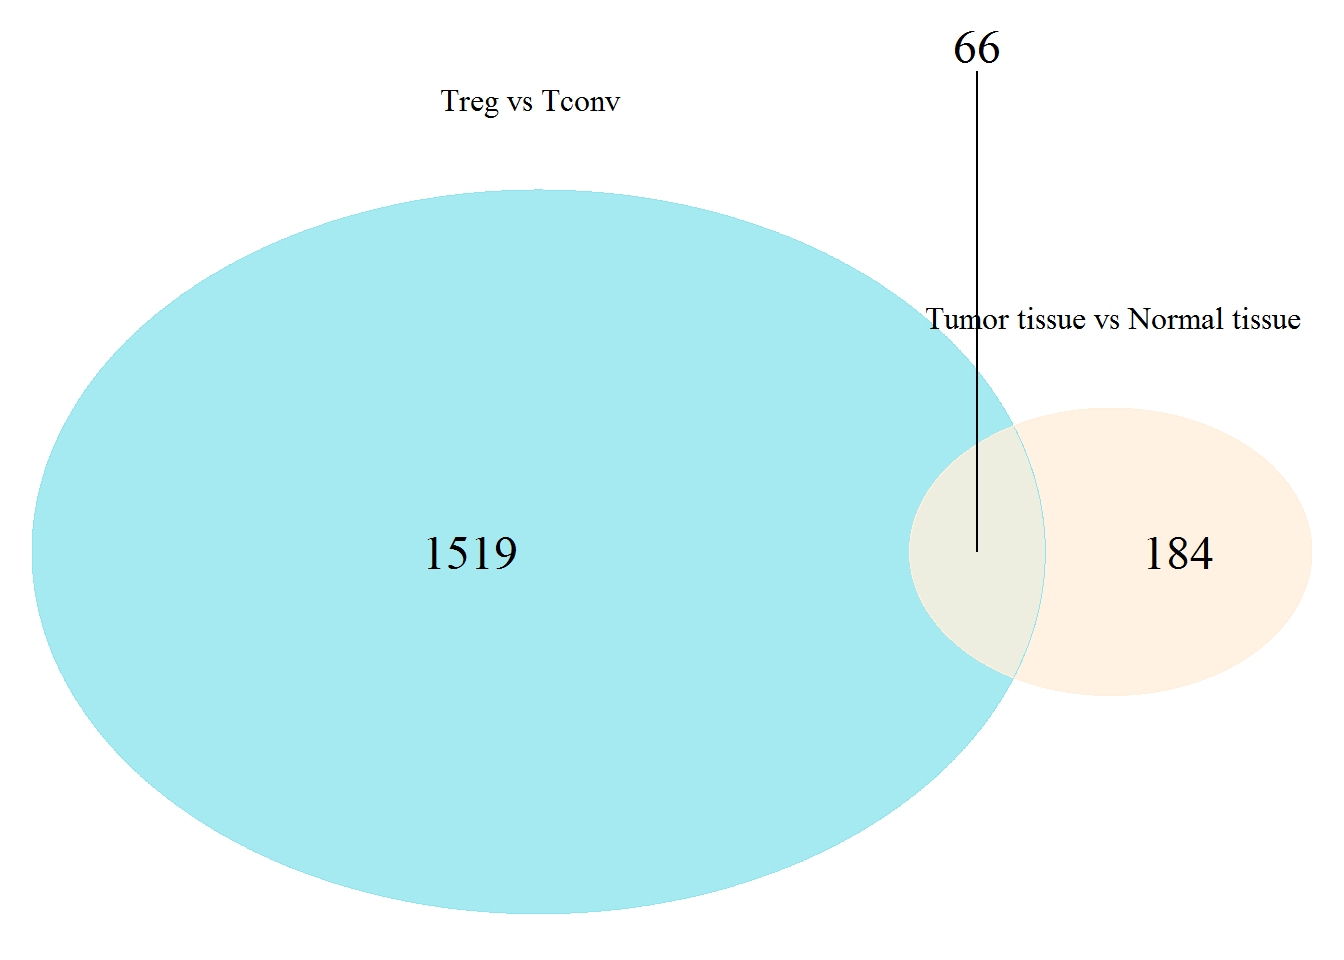
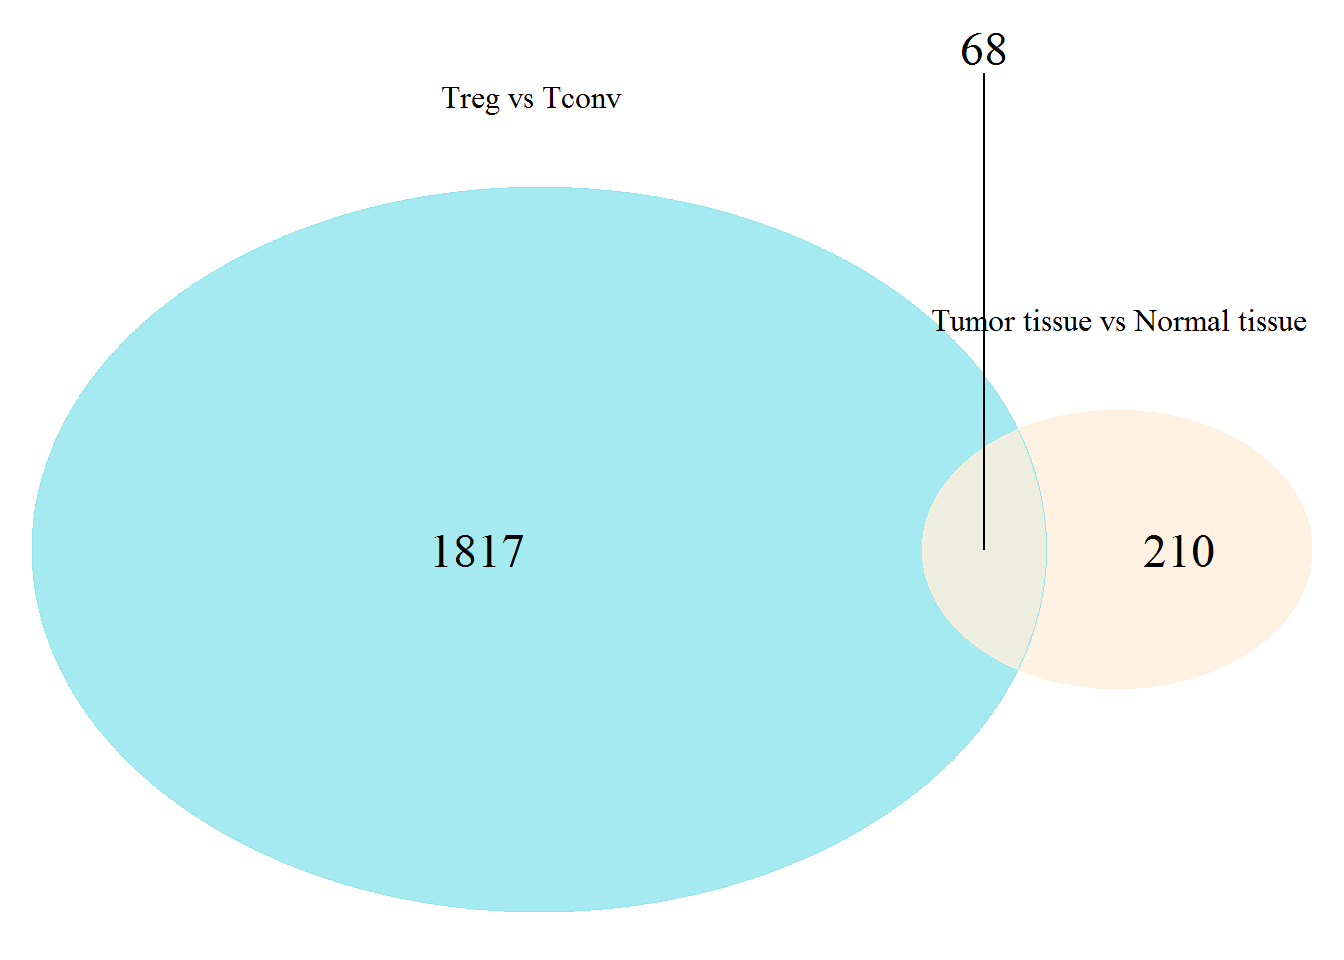
modified .Rmd file and use ENSEMBLID to Venn

diff --git a/homework_1/homework_1_MaxNest.html b/homework_1/homework_1_MaxNest.html
@@ -403,6 +403,7 @@ diffExpGenes_Tcell_types &lt;- merged[which(merged$padj &lt; 0.01), 8]
 universe &lt;- as.character(merged[, 8])
 
 
+
 # enrichment GO-annotation for Tcell_types - design
 ego &lt;- enrichGO(gene          = diffExpGenes_Tcell_types,
                 universe      = universe,
@@ -417,6 +418,7 @@ ego &lt;- enrichGO(gene          = diffExpGenes_Tcell_types,
 ##### DiffExpGenes Tissue_types
 diffExpGenes_Tissue_types &lt;- merged[which(merged_Tissue_types$padj &lt; 0.01), 8]
 universe_Tissue_types &lt;- as.character(merged_Tissue_types[, 8])
+
 
 # enrichent GO-annotation for Tissue_types - design
 ego_Tissue_types &lt;- enrichGO( gene = diffExpGenes_Tissue_types,
@@ -437,10 +439,18 @@ ego_Tissue_types &lt;- enrichGO( gene = diffExpGenes_Tissue_types,
 
 common_diffExpGenes &lt;- intersect(diffExpGenes_Tcell_types, diffExpGenes_Tissue_types)
 
+
+# ENSEMBLID of significant DE genes from Tcells-types design
+significant_res &lt;- rownames(res[which(res$padj &lt; 0.01),])
+# ENSEMBLID of significant DE genes from Tissue-types design
+significant_res2 &lt;- rownames(res_2[which(res_2$padj &lt; 0.01),])
+# commont significant DE genes
+common_significant &lt;- intersect(significant_res, significant_res2)
+
 grid.newpage()
-draw.pairwise.venn(length(diffExpGenes_Tcell_types),
-                   length(diffExpGenes_Tissue_types),
-                   length(common_diffExpGenes),
+draw.pairwise.venn(length(significant_res),
+                   length(significant_res2),
+                   length(common_significant),
                    category = c(&quot;Treg vs Tconv&quot;, &quot;Tumor tissue vs Normal tissue&quot;),
                    cat.dist = c(0.05, 0.05),
                    cat.pos = c(-0.7, 0.5),
@@ -449,7 +459,7 @@ draw.pairwise.venn(length(diffExpGenes_Tcell_types),
                    lwd = rep(0.5 , 2),
                    alpha = rep(0.8, 2), 
                    cex = rep(1.5, 3))</code></pre>
[2 lines of base64/hex data omitted]
 <pre><code>## (polygon[GRID.polygon.355], polygon[GRID.polygon.356], polygon[GRID.polygon.357], polygon[GRID.polygon.358], text[GRID.text.359], text[GRID.text.360], text[GRID.text.361], lines[GRID.lines.362], text[GRID.text.363], text[GRID.text.364])</code></pre>
 </div>
 
